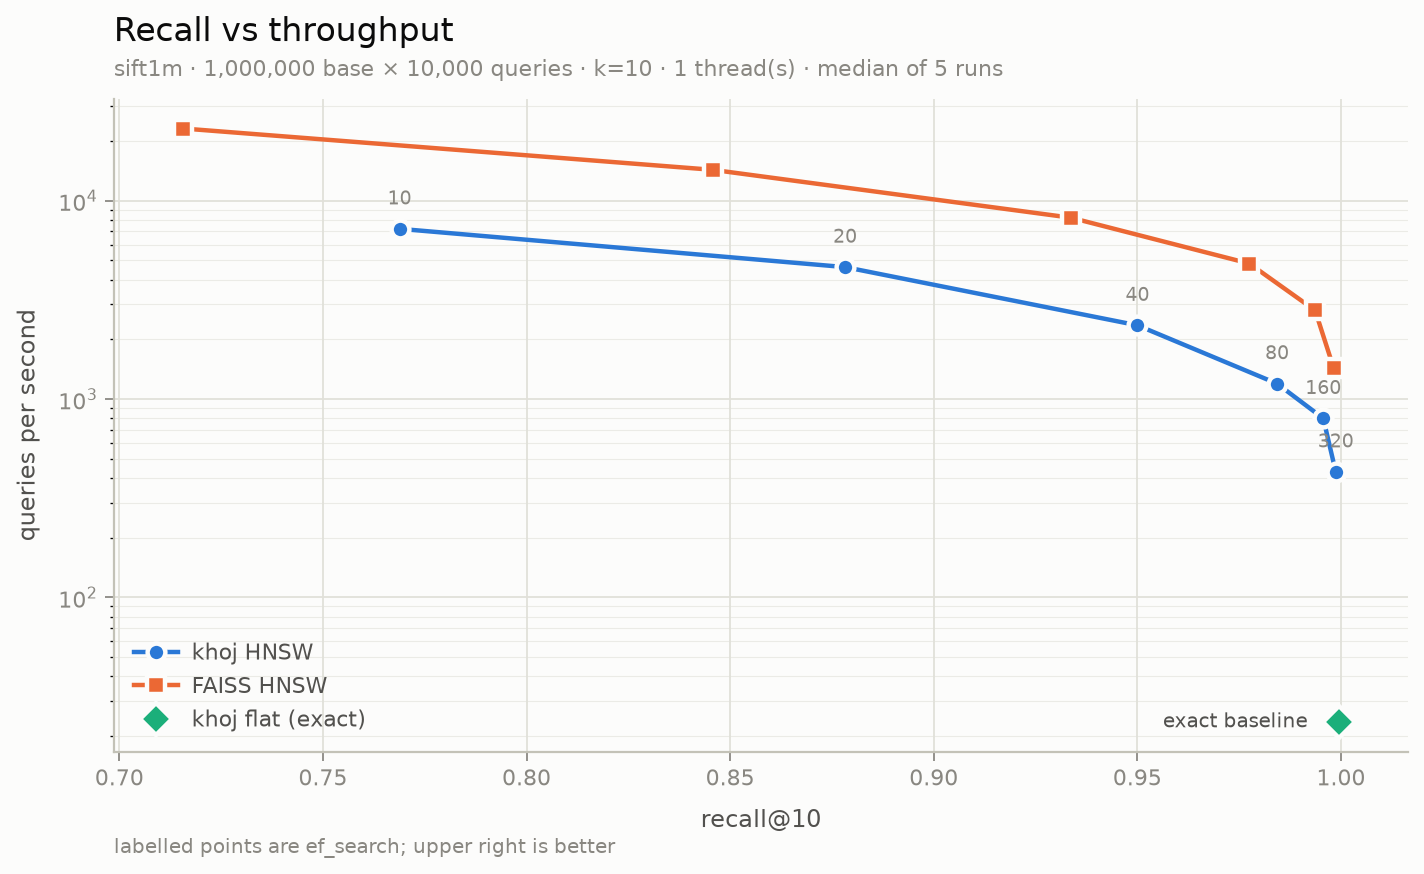
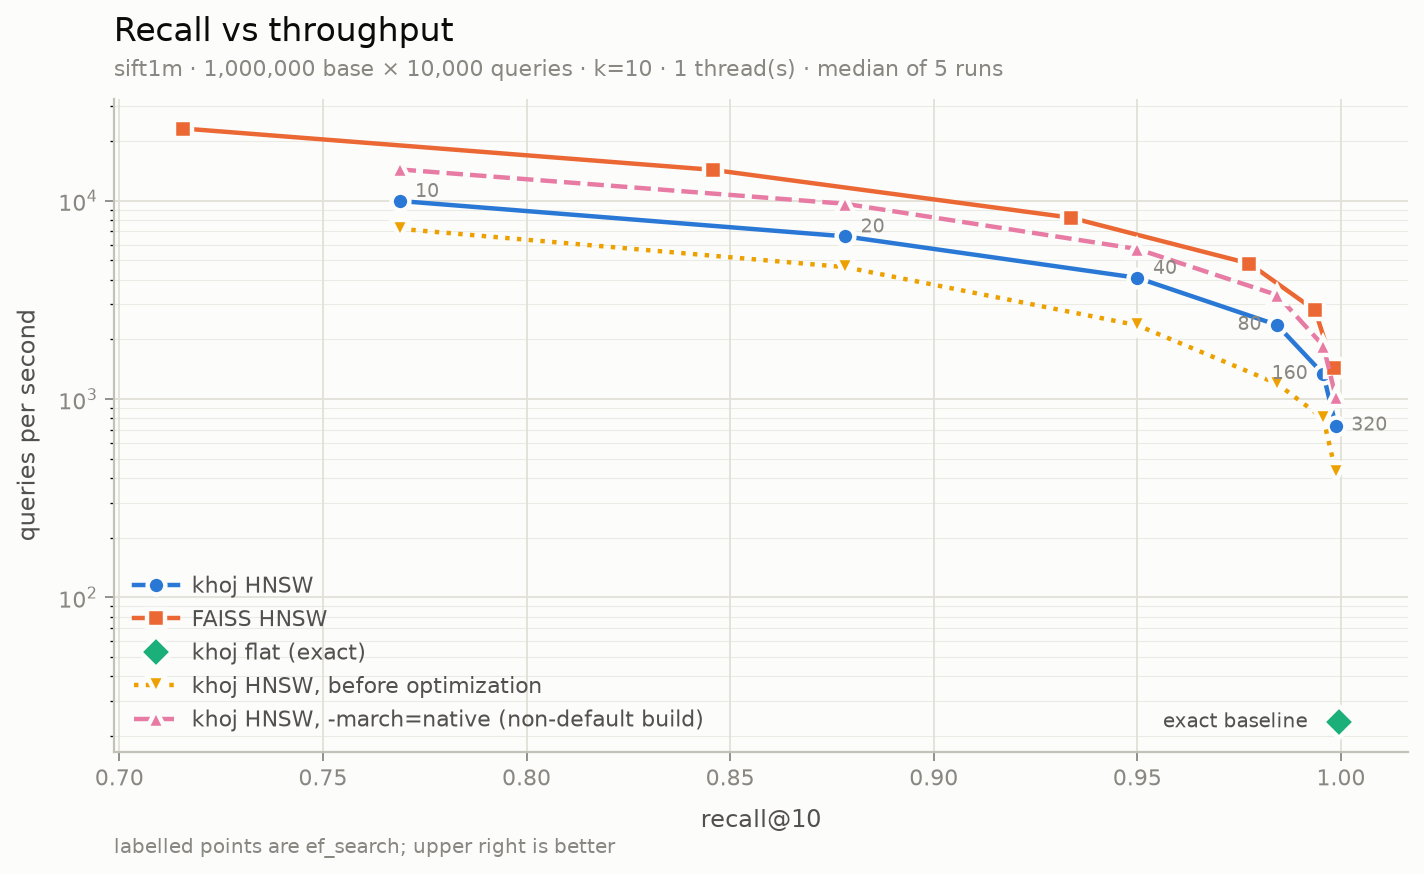
Update README and plot with post-optimization benchmarks

Changed region(s): [[0.2781, 0.1854, 0.9888, 0.5561], [0.0927, 0.6487, 0.4944, 0.8341], [0.8034, 0.3707, 0.8343, 0.4016]]

diff --git a/bench/plot_recall_qps.py b/bench/plot_recall_qps.py
@@ -11,15 +11,31 @@ matplotlib.use("Agg")
 
 import matplotlib.pyplot as plt
 
-SERIES_ORDER = ["khoj-hnsw", "faiss-hnsw", "khoj-flat"]
+SERIES_ORDER = [
+    "khoj-hnsw",
+    "faiss-hnsw",
+    "khoj-flat",
+    "khoj-hnsw-baseline",
+    "khoj-hnsw-native",
+]
 
 SERIES_LABELS = {
     "khoj-hnsw": "khoj HNSW",
     "faiss-hnsw": "FAISS HNSW",
     "khoj-flat": "khoj flat (exact)",
+    "khoj-hnsw-baseline": "khoj HNSW, before optimization",
+    "khoj-hnsw-native": "khoj HNSW, -march=native (non-default build)",
 }
 
-SERIES_MARKERS = {"khoj-hnsw": "o", "faiss-hnsw": "s", "khoj-flat": "D"}
+SERIES_MARKERS = {
+    "khoj-hnsw": "o",
+    "faiss-hnsw": "s",
+    "khoj-flat": "D",
+    "khoj-hnsw-baseline": "v",
+    "khoj-hnsw-native": "^",
+}
+
+SERIES_LINESTYLES = {"khoj-hnsw-baseline": ":", "khoj-hnsw-native": "--"}
 
 THEMES = {
     "light": {
@@ -33,6 +49,8 @@ THEMES = {
             "khoj-hnsw": "#2a78d6",
             "faiss-hnsw": "#eb6834",
             "khoj-flat": "#1baf7a",
+            "khoj-hnsw-baseline": "#eda100",
+            "khoj-hnsw-native": "#e87ba4",
         },
     },
     "dark": {
@@ -46,16 +64,23 @@ THEMES = {
             "khoj-hnsw": "#3987e5",
             "faiss-hnsw": "#d95926",
             "khoj-flat": "#199e70",
+            "khoj-hnsw-baseline": "#c98500",
+            "khoj-hnsw-native": "#d55181",
         },
     },
 }
 
 
-def load_rows(paths: list[str]) -> list[dict[str, str]]:
+def load_rows(arguments: list[str]) -> list[dict[str, str]]:
     rows: list[dict[str, str]] = []
-    for path in paths:
+    for argument in arguments:
+        series, separator, path = argument.partition("=")
+        if not separator:
+            series, path = "", argument
         with open(path, "r", newline="", encoding="utf-8") as handle:
-            rows.extend(csv.DictReader(handle))
+            for row in csv.DictReader(handle):
+                row["series"] = series or f"{row['engine']}-{row['index']}"
+                rows.append(row)
     if not rows:
         raise SystemExit("no rows found in the supplied CSV files")
     return rows
@@ -64,7 +89,7 @@ def load_rows(paths: list[str]) -> list[dict[str, str]]:
 def group_series(rows: list[dict[str, str]]) -> dict[str, list[dict[str, Any]]]:
     grouped: dict[str, list[dict[str, Any]]] = {}
     for row in rows:
-        key = f"{row['engine']}-{row['index']}"
+        key = row["series"]
         if key not in SERIES_ORDER:
             raise SystemExit(
                 f"unmapped series {key}; add a validated colour slot before plotting it"
@@ -170,6 +195,7 @@ def render(
                 marker=SERIES_MARKERS[key],
                 markersize=8,
                 linewidth=2,
+                linestyle=SERIES_LINESTYLES.get(key, "-"),
                 color=colour,
                 markeredgecolor=theme["surface"],
                 markeredgewidth=2,
@@ -177,23 +203,37 @@ def render(
                 zorder=3,
             )
 
-        if key == "khoj-hnsw":
-            for point in points:
-                axes.annotate(
-                    point["ef_search"],
-                    (point["recall"], point["qps"]),
-                    textcoords="offset points",
-                    xytext=(0, 11),
-                    ha="center",
-                    fontsize=8.5,
-                    color=theme["muted"],
-                    zorder=4,
-                )
-
     all_recalls = [point["recall"] for points in grouped.values() for point in points]
     span = max(all_recalls) - min(all_recalls)
     padding = max(span * 0.06, 0.01)
     axes.set_xlim(min(all_recalls) - padding, max(all_recalls) + padding)
+    axes.autoscale_view(scalex=False)
+
+    # Every khoj HNSW variant shares one recall per ef_search, so a label above or
+    # below a point lands on another curve's marker. Labels go beside the point
+    # instead: right along gentle stretches, left where the curve falls steeply,
+    # and right of the final point.
+    labelled = grouped.get("khoj-hnsw", [])
+    for index, point in enumerate(labelled):
+        if index == len(labelled) - 1:
+            offset, ha, va = (7, 0), "left", "center"
+        else:
+            here = axes.transData.transform((point["recall"], point["qps"]))
+            following = labelled[index + 1]
+            there = axes.transData.transform((following["recall"], following["qps"]))
+            gentle = abs(there[1] - here[1]) < abs(there[0] - here[0])
+            offset, ha, va = ((7, 4), "left", "center") if gentle else ((-7, 0), "right", "center")
+        axes.annotate(
+            point["ef_search"],
+            (point["recall"], point["qps"]),
+            textcoords="offset points",
+            xytext=offset,
+            ha=ha,
+            va=va,
+            fontsize=8.5,
+            color=theme["muted"],
+            zorder=4,
+        )
 
     axes.set_xlabel(f"recall@{k}", color=theme["secondary"], fontsize=11, labelpad=8)
     axes.set_ylabel("queries per second", color=theme["secondary"], fontsize=11, labelpad=8)
@@ -240,7 +280,12 @@ def render(
 
 def parse_arguments() -> argparse.Namespace:
     parser = argparse.ArgumentParser()
-    parser.add_argument("csv", nargs="+")
+    parser.add_argument(
+        "csv",
+        nargs="+",
+        help="CSV path, optionally prefixed SERIES=path to override the "
+        "engine-index series key (e.g. khoj-hnsw-native=results.csv)",
+    )
     parser.add_argument("--out", default="bench/results/recall_vs_qps")
     return parser.parse_args()
 

diff --git a/README.md b/README.md
@@ -8,12 +8,12 @@ Recall@10 and queries per second on ANN_SIFT1M (1,000,000 base × 10,000 query v
 
 | Index | ef_search | recall@10 | QPS | Build | Index RSS |
 |---|---:|---:|---:|---:|---:|
-| **khoj HNSW** | 10 | **0.7688** | 7,219 | 1,942 s | 679.0 MiB |
-| **khoj HNSW** | 20 | **0.8782** | 4,629 | | |
-| **khoj HNSW** | 40 | **0.9500** | 2,355 | | |
-| **khoj HNSW** | 80 | **0.9843** | 1,197 | | |
-| **khoj HNSW** | 160 | **0.9957** | 799 | | |
-| **khoj HNSW** | 320 | **0.9987** | 430 | | |
+| **khoj HNSW** | 10 | **0.7688** | 9,976 | 1,179 s | 680.6 MiB |
+| **khoj HNSW** | 20 | **0.8782** | 6,616 | | |
+| **khoj HNSW** | 40 | **0.9500** | 4,086 | | |
+| **khoj HNSW** | 80 | **0.9843** | 2,364 | | |
+| **khoj HNSW** | 160 | **0.9957** | 1,337 | | |
+| **khoj HNSW** | 320 | **0.9987** | 735 | | |
 | FAISS HNSW | 10 | 0.7157 | 23,140 | 501 s | 632.8 MiB |
 | FAISS HNSW | 20 | 0.8457 | 14,326 | | |
 | FAISS HNSW | 40 | 0.9337 | 8,215 | | |
@@ -24,9 +24,24 @@ Recall@10 and queries per second on ANN_SIFT1M (1,000,000 base × 10,000 query v
 
 ![recall@10 versus queries per second on SIFT-1M](bench/results/recall_vs_qps.png)
 
-Sources: [`bench/results/khoj_hnsw.csv`](bench/results/khoj_hnsw.csv), [`bench/results/faiss_hnsw.csv`](bench/results/faiss_hnsw.csv), [`bench/results/khoj_flat.csv`](bench/results/khoj_flat.csv).
+All khoj rows are the default build (`KHOJ_NATIVE_ARCH=OFF`, baseline x86-64). The plot also shows khoj HNSW before the optimizations below, and a non-default `-march=native` build.
+
+Sources: [`bench/results/khoj_hnsw_optimized.csv`](bench/results/khoj_hnsw_optimized.csv), [`bench/results/faiss_hnsw.csv`](bench/results/faiss_hnsw.csv), [`bench/results/khoj_flat.csv`](bench/results/khoj_flat.csv); for the plot only, [`bench/results/khoj_hnsw.csv`](bench/results/khoj_hnsw.csv) (before optimization) and [`bench/results/khoj_hnsw_optimized_native.csv`](bench/results/khoj_hnsw_optimized_native.csv) (native build).
 
 The flat index is exhaustive, so its 0.9994 is a property of the ground-truth file rather than of the scan: 137 of the 10,000 queries have an 11th neighbour exactly as close as the 10th, which puts up to 0.00137 of recall@10 beyond reach of any tie-breaking rule. The observed shortfall is 0.00056.
+
+### Optimization
+
+Two changes to `HnswIndex`, measured together: `search_layer` leases a pooled, version-stamped visited list instead of allocating and hashing into a `std::unordered_set` on every call, and HNSW distances go through the flat index's lane-blocked kernels instead of a scalar loop. The graph is unchanged, so **recall@10 is bit-identical across all three builds** at every `ef_search`; only time moved.
+
+| khoj HNSW | Build | QPS @ 10 | 20 | 40 | 80 | 160 | 320 |
+|---|---:|---:|---:|---:|---:|---:|---:|
+| before | 1,942 s | 7,219 | 4,629 | 2,355 | 1,197 | 799 | 430 |
+| **optimized (default build)** | **1,179 s** | **9,976** | **6,616** | **4,086** | **2,364** | **1,337** | **735** |
+| optimized, `KHOJ_NATIVE_ARCH=ON` (non-default) | 838 s | 14,388 | 9,657 | 5,710 | 3,347 | 1,859 | 1,028 |
+| recall@10, all three | | 0.7688 | 0.8782 | 0.9500 | 0.9843 | 0.9957 | 0.9987 |
+
+In the default build that is 1.4–2.0× the query throughput and a 1.65× faster build. Compiling with `-march=native` (AVX2 + FMA on this host) takes it to 2.0–2.8× and 2.3×, but the binary then runs only on CPUs with the build host's instruction set, which is why it is not the default. Because both changes landed before either was benchmarked on SIFT-1M, the split between them is not measured.
 
 ### Conditions
 
@@ -35,7 +50,7 @@ The flat index is exhaustive, so its 0.9994 is a property of the ground-truth fi
 | CPU | 12th Gen Intel Core i7-1255U, 6 cores / 12 threads, AVX2 + FMA (no AVX-512) |
 | Memory | 7.6 GiB |
 | OS | Linux 6.6.87.2 (WSL2), Ubuntu 24.04 |
-| Toolchain | GCC 13.3.0, `-O3 -DNDEBUG`, `KHOJ_NATIVE_ARCH=OFF` (baseline x86-64) |
+| Toolchain | GCC 13.3.0, `-O3 -DNDEBUG`, `KHOJ_NATIVE_ARCH=OFF` (baseline x86-64); rows marked native use `KHOJ_NATIVE_ARCH=ON` |
 | Baseline | faiss 1.15.1 (CPU), NumPy 2.5.3, Python 3.12.3 |
 | Threads | **1**, for search and for index construction, on both engines |
 | Runs | 5 per configuration; median reported, min and max kept in the CSV |
@@ -46,7 +61,9 @@ One difference the numbers cannot hide: `bench_khoj` calls `search` once per que
 
 ## Where khoj stands against FAISS
 
-**FAISS is 3.1–4.0× faster at matched `ef_search`, and 2.5–3.2× faster at matched recall.** The likely cause is distance-kernel throughput. FAISS ships hand-written SIMD kernels with runtime dispatch. Khoj's are portable C++ left to the compiler: the flat index uses lane-blocked accumulator loops, and the HNSW index — the one benchmarked here — uses a plain scalar loop over the 128 dimensions. The benchmark build also targets baseline x86-64, not the host's AVX2. That khoj reaches higher recall at every matched `ef_search` argues the graph itself is sound and the cost is per distance evaluation, but no profile has been taken to apportion the gap precisely.
+**FAISS is 1.9–2.3× faster at matched `ef_search`, and 1.6–1.9× faster at matched recall**, down from 3.1–4.0× and 2.5–3.2× before the optimizations above. Matched-recall ratios interpolate the FAISS curve log-linearly at each khoj recall; `ef_search`=320 is left out because khoj's recall there exceeds anything FAISS reached. FAISS also builds its index in 501 s against khoj's 1,179 s.
+
+The gap that remains is most plausibly instruction set and kernel quality. FAISS ships hand-written SIMD kernels and picks AVX2 at runtime on this host. Khoj's kernels — lane-blocked accumulator loops, shared by both indexes — are portable C++ left to the compiler, which in the default baseline x86-64 build can only emit SSE. The non-default native build puts both engines on AVX2 and narrows the gap to 1.4–1.6× at matched `ef_search` and 1.1–1.3× at matched recall (build: 838 s vs 501 s). What is left after that is unapportioned: hand-written versus compiler-vectorised kernels, other per-query costs in the search loop, and the per-call versus batched harness difference noted above. No profile has been taken to separate them.
 
 **Khoj returns higher recall@10 than FAISS at every `ef_search` tested**, by 5.3 points at `ef_search`=10 narrowing to 0.05 points at 320:
 
@@ -54,9 +71,9 @@ One difference the numbers cannot hide: `bench_khoj` calls `search` once per que
 |---|---:|---:|---:|---:|---:|---:|
 | khoj − FAISS (recall@10, points) | +5.31 | +3.26 | +1.63 | +0.68 | +0.20 | +0.05 |
 
-So khoj extracts more recall per unit of `ef_search`, and FAISS extracts far more throughput per unit of work. Matched on recall rather than on `ef_search`, the throughput gap narrows from 3–4× to roughly 2.5–3×, but it does not close. Closing it means writing the SIMD kernels.
+So khoj extracts more recall per unit of `ef_search`, and FAISS extracts more throughput per unit of work. Matched on recall rather than on `ef_search`, the default-build gap narrows from about 2× to 1.6–1.9×, but it does not close. Closing it in the default build means kernels that use AVX2 without `-march=native` — runtime dispatch, as FAISS does.
 
-Both HNSW indexes are worth their build cost against exhaustive search: at `ef_search`=40 khoj answers queries 100× faster than its own flat index for a 4.9-point recall trade.
+Both HNSW indexes are worth their build cost against exhaustive search: at `ef_search`=40 khoj answers queries 174× faster than its own flat index for a 4.9-point recall trade. (The flat index was not re-run; the kernel change only moved its code.)
 
 ## Build
 
@@ -93,9 +110,9 @@ tests/            Catch2 for C++, pytest for the bindings
 
 **`FlatIndex`** stores vectors contiguously in one `std::vector<float>` and scans all of them per query. Exact by construction, and the reference every approximate result is checked against.
 
-**`HnswIndex`** is a flat-array hierarchical graph. Layer 0 adjacency lives in a single `std::vector<InternalId>` of `max_neighbors_layer0` slots per node with a parallel degree array, so a neighbour walk is one indexed load rather than a pointer chase; upper layers are stored per-level in the same shape. Node levels are drawn from an exponential distribution using a seeded xorshift generator, making construction deterministic for a given seed and insertion order. Search descends greedily through the upper layers to find an entry point, then runs a best-first `search_layer` on layer 0 with two heaps and a visited set bounded by `ef_search`. Edges are chosen by the relative-neighbourhood heuristic — a candidate is kept only if no already-selected neighbour is closer to it than the base node is, with discarded candidates backfilling to the degree limit — and over-full nodes are re-pruned by the same rule. Indexes serialise to a flat binary file behind a magic number, and `load` restores the graph without rebuilding.
+**`HnswIndex`** is a flat-array hierarchical graph. Layer 0 adjacency lives in a single `std::vector<InternalId>` of `max_neighbors_layer0` slots per node with a parallel degree array, so a neighbour walk is one indexed load rather than a pointer chase; upper layers are stored per-level in the same shape. Node levels are drawn from an exponential distribution using a seeded xorshift generator, making construction deterministic for a given seed and insertion order. Search descends greedily through the upper layers to find an entry point, then runs a best-first `search_layer` on layer 0 with two heaps bounded by `ef_search` and a visited list leased from a pool on the index; each list holds a 16-bit stamp per node, so starting a query clears it in O(1) by bumping the stamp. Edges are chosen by the relative-neighbourhood heuristic — a candidate is kept only if no already-selected neighbour is closer to it than the base node is, with discarded candidates backfilling to the degree limit — and over-full nodes are re-pruned by the same rule. Indexes serialise to a flat binary file behind a magic number, and `load` restores the graph without rebuilding.
 
-`search` is `const` and takes no locks, so concurrent queries against a finished index are safe — asserted for the flat index in the Catch2 suite and for HNSW in the pytest suite, both by checking that parallel queries reproduce the single-threaded results exactly. Insertion is single-threaded.
+`search` is `const`; on HNSW its only shared state is the visited-list pool, which it locks only to lease and return a list. Concurrent queries against a finished index are safe — asserted for the flat index in the Catch2 suite and for HNSW in the pytest suite, both by checking that parallel queries reproduce the single-threaded results exactly. Insertion is single-threaded.
 
 The Python module wraps both indexes with NumPy-aware conversion (float64 and non-contiguous inputs are accepted and converted), and releases the GIL around batch search, save, and load.
 
@@ -104,8 +121,8 @@ The Python module wraps both indexes with NumPy-aware conversion (float64 and no
 Everything in the search path:
 
 - the HNSW graph — level assignment, greedy descent, best-first layer search, the relative-neighbourhood neighbour-selection heuristic, and degree pruning
-- the flat-array adjacency layout and the binary save/load format
-- L2 and inner-product distance kernels (lane-blocked for auto-vectorisation in the flat index, scalar in HNSW)
+- the flat-array adjacency layout, the pooled version-stamped visited list, and the binary save/load format
+- L2 and inner-product distance kernels, lane-blocked for compiler auto-vectorisation and shared by the flat and HNSW indexes
 - exhaustive search, k-selection, and deterministic tie-breaking by ascending label
 - the xorshift PRNG behind level assignment
 - the `.fvecs` / `.ivecs` readers, the benchmark harness, and the recall/QPS/RSS measurement

diff --git a/bench/README.md b/bench/README.md
@@ -53,7 +53,9 @@ PYTHONPATH=bench python bench/bench_faiss.py \
   --csv bench/results/faiss_hnsw.csv
 
 PYTHONPATH=bench python bench/plot_recall_qps.py \
-  bench/results/khoj_hnsw.csv \
+  khoj-hnsw-baseline=bench/results/khoj_hnsw.csv \
+  bench/results/khoj_hnsw_optimized.csv \
+  khoj-hnsw-native=bench/results/khoj_hnsw_optimized_native.csv \
   bench/results/faiss_hnsw.csv \
   bench/results/khoj_flat.csv \
   --out bench/results/recall_vs_qps
